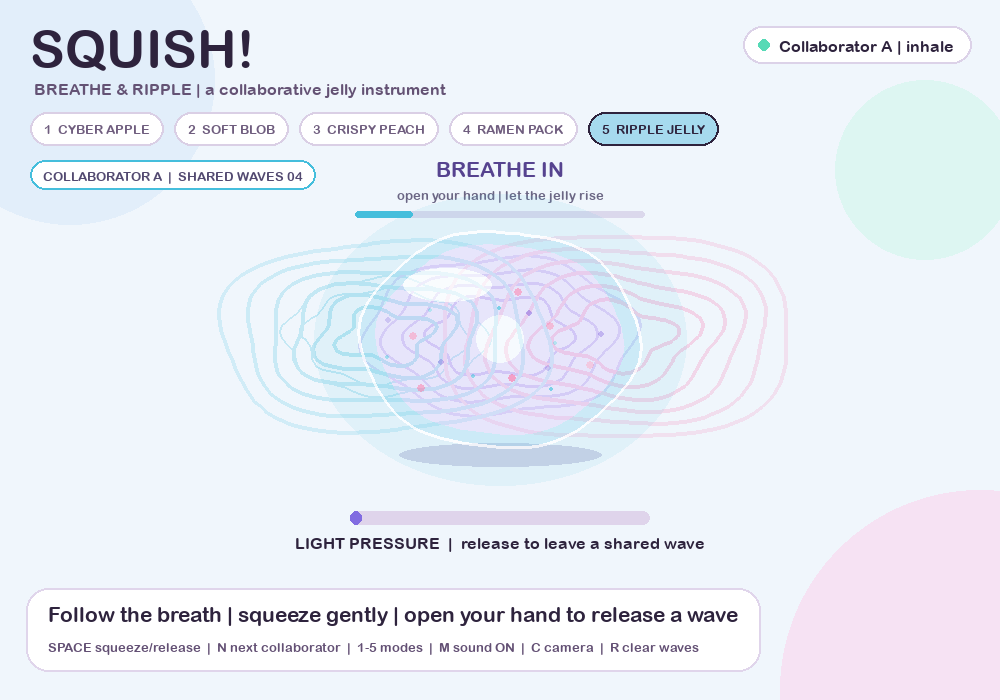
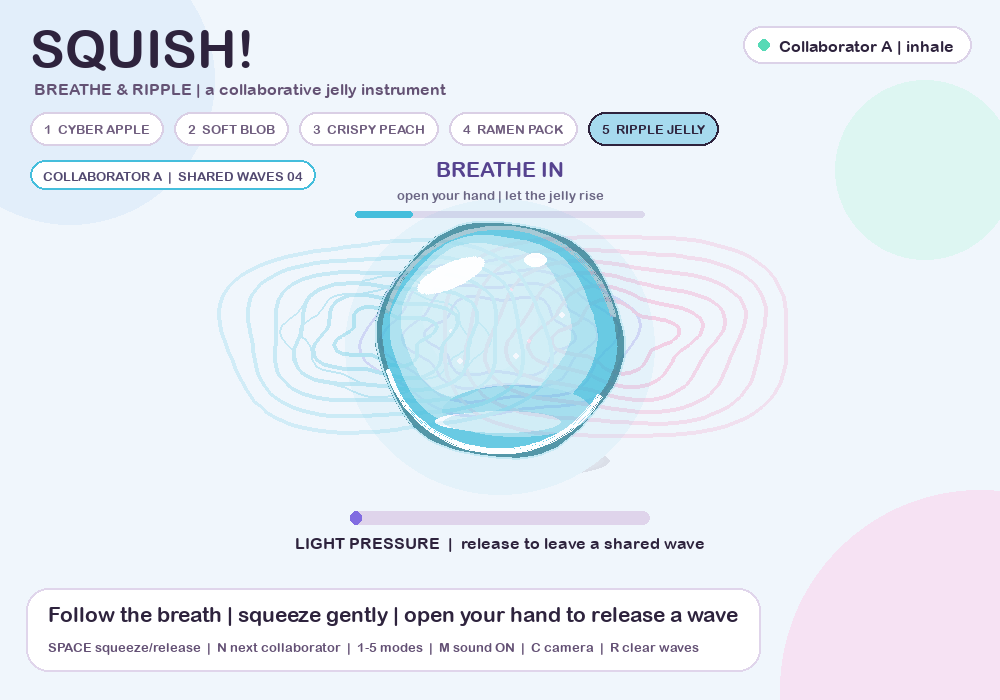
style: render glossy hydrogel ripple jelly

Changed region(s): [[0.372, 0.3, 0.651, 0.69]]

diff --git a/src/squish/app.py b/src/squish/app.py
@@ -707,18 +707,32 @@ class SquishApp:
         else:
             breath_scale = 1.04 - progress * 0.08
 
-        width, height = self.deformed_size(285, 230, pressure, 0.48, 0.40, scale * breath_scale)
+        # Keep the resting form close to a water-gel sphere. Pressure turns that
+        # sphere into a convincing squish without losing its glossy silhouette.
+        width, height = self.deformed_size(252, 252, pressure, 0.43, 0.38, scale * breath_scale)
         if self.squeeze_axis == "vertical":
-            cy += pressure * 30 * scale
+            cy += pressure * 25 * scale
         cy += math.sin(pygame.time.get_ticks() * 0.0016) * 5 * scale
-        shadow = pygame.Rect(0, 0, width * 0.73, 24 * scale)
-        shadow.center = (cx, cy + height * 0.53)
-        pygame.draw.ellipse(surface, (207, 211, 231), shadow)
 
         layer = pygame.Surface(surface.get_size(), pygame.SRCALPHA)
-        glow = pygame.Rect(0, 0, width + 95 * scale, height + 75 * scale)
-        glow.center = (cx, cy)
-        pygame.draw.ellipse(layer, (*RIPPLE_COLORS[self.collaborator], 24), glow)
+        tint = RIPPLE_COLORS[self.collaborator]
+        edge = tuple(max(0, int(channel * 0.67)) for channel in tint)
+        pale = tuple(min(255, int(channel + (255 - channel) * 0.45)) for channel in tint)
+        light = tuple(min(255, int(channel + (255 - channel) * 0.67)) for channel in tint)
+
+        # A layered contact shadow and a small coloured caustic sell the sense
+        # that the translucent ball is resting just above a surface.
+        for step in range(6, 0, -1):
+            shadow = pygame.Rect(0, 0, width * (0.55 + step * 0.045), (10 + step * 4) * scale)
+            shadow.center = (cx + width * 0.035, cy + height * 0.51)
+            pygame.draw.ellipse(layer, (66, 58, 92, 7 + step * 4), shadow)
+        caustic = pygame.Rect(0, 0, width * 0.48, height * 0.12)
+        caustic.center = (cx + width * 0.08, cy + height * 0.48)
+        pygame.draw.ellipse(layer, (*tint, 42), caustic)
+
+        glow = pygame.Rect(0, 0, width + 64 * scale, height + 58 * scale)
+        glow.center = (cx, cy + height * 0.03)
+        pygame.draw.ellipse(layer, (*tint, 18), glow)
 
         now = pygame.time.get_ticks() * 0.0018
         points = []
@@ -726,25 +740,66 @@ class SquishApp:
             angle = index / 96 * math.tau
             wobble = 1 + math.sin(angle * 6 + now) * (0.018 + pressure * 0.012)
             points.append((cx + math.cos(angle) * width * 0.5 * wobble, cy + math.sin(angle) * height * 0.5 * wobble))
-        pygame.draw.polygon(layer, (112, 204, 232, 72), points)
-        inner = [(cx + (x - cx) * 0.88, cy + (y - cy) * 0.88) for x, y in points]
-        pygame.draw.polygon(layer, (203, 177, 246, 63), inner)
-        pygame.draw.lines(layer, (255, 255, 255, 175), True, points, max(2, int(3 * scale)))
+        pygame.draw.polygon(layer, (*edge, 205), points)
 
-        for index in range(18):
-            angle = index * 2.399 + now * 0.22
-            distance = 0.20 + (index % 5) * 0.055
+        # Nested bodies act like a simple radial material: saturated at the rim,
+        # luminous and transparent through the middle.
+        body_layers = (
+            (0.94, (*tint, 202), 0.00, 0.00),
+            (0.83, (*pale, 190), -0.025, -0.025),
+            (0.68, (*light, 170), -0.055, -0.065),
+            (0.46, (*light, 150), -0.08, -0.09),
+        )
+        for factor, color, shift_x, shift_y in body_layers:
+            inner = [
+                (cx + (x - cx) * factor + width * shift_x, cy + (y - cy) * factor + height * shift_y)
+                for x, y in points
+            ]
+            pygame.draw.polygon(layer, color, inner)
+
+        lower_refraction = pygame.Rect(0, 0, width * 0.61, height * 0.22)
+        lower_refraction.center = (cx + width * 0.07, cy + height * 0.30)
+        pygame.draw.ellipse(layer, (*tint, 112), lower_refraction)
+        lower_light = pygame.Rect(0, 0, width * 0.35, height * 0.075)
+        lower_light.center = (cx - width * 0.09, cy + height * 0.34)
+        pygame.draw.ellipse(layer, (255, 255, 255, 105), lower_light)
+
+        # A darker lower rim and bright upper rim mimic refraction through a
+        # thick hydrogel skin while still allowing the ripples to show through.
+        rim_rect = pygame.Rect(0, 0, width * 0.96, height * 0.96)
+        rim_rect.center = (cx, cy)
+        pygame.draw.arc(layer, (*edge, 96), rim_rect, math.radians(12), math.radians(166), max(2, int(4 * scale)))
+        pygame.draw.arc(layer, (255, 255, 255, 210), rim_rect, math.radians(196), math.radians(330), max(2, int(4 * scale)))
+        pygame.draw.lines(layer, (*pale, 122), True, points, max(1, int(2 * scale)))
+
+        # A few barely visible inclusions add depth without turning the clean
+        # gel material back into the earlier dotted, misty blob.
+        for index in range(6):
+            angle = index * 2.399 + now * 0.12
+            distance = 0.12 + (index % 3) * 0.085
             px = cx + math.cos(angle) * width * distance
             py = cy + math.sin(angle) * height * distance * 0.72
-            radius = max(2, int((2 + index % 3) * scale))
-            color = (*RIPPLE_COLORS[index % 3], 90 + (index % 4) * 28)
-            pygame.draw.circle(layer, color, (int(px), int(py)), radius)
+            radius = max(2, int((2 + index % 2) * scale))
+            pygame.draw.circle(layer, (255, 255, 255, 52), (int(px), int(py)), radius)
 
-        core_radius = int((24 + pressure * 15) * scale)
-        pygame.draw.circle(layer, (255, 255, 255, 92), (int(cx), int(cy)), core_radius)
-        shine = pygame.Rect(0, 0, width * 0.32, height * 0.16)
-        shine.center = (cx - width * 0.19, cy - height * 0.25)
-        pygame.draw.ellipse(layer, (255, 255, 255, 150), shine)
+        # Crisp, offset specular highlights are the strongest material cue in
+        # the user's reference: one stretched reflection plus a small sparkle.
+        highlight_size = (max(12, int(width * 0.30)), max(8, int(height * 0.105)))
+        highlight = pygame.Surface(highlight_size, pygame.SRCALPHA)
+        pygame.draw.ellipse(highlight, (255, 255, 255, 244), highlight.get_rect())
+        highlight = pygame.transform.rotate(highlight, 24)
+        highlight_rect = highlight.get_rect(center=(cx - width * 0.20, cy - height * 0.27))
+        layer.blit(highlight, highlight_rect)
+        pygame.draw.ellipse(
+            layer,
+            (255, 255, 255, 235),
+            pygame.Rect(cx + width * 0.10, cy - height * 0.36, width * 0.095, height * 0.06),
+        )
+        pygame.draw.ellipse(
+            layer,
+            (*pale, 90),
+            pygame.Rect(cx - width * 0.23, cy + height * 0.30, width * 0.48, height * 0.095),
+        )
         surface.blit(layer, (0, 0))
 
     def draw_particles(self, surface: pygame.Surface) -> None:

diff --git a/src/squish/__init__.py b/src/squish/__init__.py
@@ -1,4 +1,4 @@
 """SQUISH! interactive digital stress toy."""
 
-__version__ = "0.6.0"
+__version__ = "0.6.1"
 

diff --git a/CREDITS.md b/CREDITS.md
@@ -25,13 +25,13 @@ Library versions used for a particular submission are recorded in `uv.lock` afte
 
 ## Visual and media assets
 
-All shapes, character graphics, translucent jelly layers, pressure waves, supermarket elements, particles, interface elements, and short sound effects are generated procedurally by the Python code. There are no downloaded images, fonts, sounds, prerecorded camera clips, or third-party visual assets in prototype version 0.6.
+All shapes, character graphics, translucent jelly layers, pressure waves, supermarket elements, particles, interface elements, and short sound effects are generated procedurally by the Python code. There are no downloaded images, fonts, sounds, prerecorded camera clips, or third-party visual assets in prototype version 0.6.1.
 
 ## Interaction references
 
 - A user-supplied Xiaohongshu post titled “捏一下赛博青苹果来哄自己开心” inspired the green-apple theme and the request for more tactile variation. The short link could not be fetched in the development environment, so no imagery, code, audio, or text was copied from it: <https://xhslink.cn/o/6Nkve3BQzjj>
 - CBNData's article on crispy squishies was consulted for general context about progressive breaking and immediate sensory feedback: <https://www.cbndata.com/information/295843>
-- User-supplied screenshots of gesture-controlled music and breathing-oriented generative artwork informed the later request for a translucent jelly, breathing prompts, musical feedback, and collaborative pressure waves. No imagery, interface, text, music, or code was copied from those screenshots.
+- User-supplied screenshots of gesture-controlled music, breathing-oriented generative artwork, and coloured hydrogel stress balls informed the translucent jelly, breathing prompts, musical feedback, collaborative pressure waves, and glossy material treatment. No imagery, interface, text, music, or code was copied from those screenshots.
 
 These are interaction references, not source assets.
 

diff --git a/README.md b/README.md
@@ -2,7 +2,7 @@
 
 Public repository: <https://github.com/Only-SerenaLIN/SQUISH-interactive-experience>
 
-**SQUISH!** is a webcam-controlled breathing and co-creation experience built around a translucent digital jelly. Follow a gentle breathing prompt, close your hand to build pressure, and open it to release a visual ripple and a generated musical chord. Each person's waves remain on the shared canvas long enough to meet the next participant's contribution.
+**SQUISH!** is a webcam-controlled breathing and co-creation experience built around a glossy, translucent digital hydrogel ball. Follow a gentle breathing prompt, close your hand to build pressure, and open it to release a visual ripple and a generated musical chord. Each person's waves remain on the shared canvas long enough to meet the next participant's contribution.
 
 The default **Ripple Jelly** mode is the focused Assignment 3 experience. Earlier Cyber Apple, Soft Blob, Crispy Peach, and Ramen Pack studies remain available as development experiments. If the camera is unavailable, the complete main interaction still works with the keyboard or mouse.
 
@@ -65,7 +65,7 @@ The enhanced supermarket interaction adds anticipation before the burst and a di
 - Live one-hand and two-hand tracking with OpenCV and MediaPipe
 - Hand-open / hand-closed estimation, normalised for hand size
 - Horizontal two-palm distance mapped to side pressure
-- A translucent **Ripple Jelly** with breathing expansion, pressure deformation, internal light, and spring rebound
+- A glossy translucent **Ripple Jelly** with a coloured rim, transmitted light, specular highlights, breathing expansion, pressure deformation, and spring rebound
 - A persistent eight-layer co-creation canvas for three sequential collaborators
 - Three pressure qualities mapped to distinct wave geometry and generated ambient chords
 - A 4-2-6 visual breathing guide that never treats timing variation as failure

diff --git a/PROCESS.md b/PROCESS.md
@@ -149,6 +149,7 @@ Camera frames are processed in memory and are not displayed, recorded, uploaded,
 - Kept the eight most recent waves visible so three sequential collaborators can build one shared composition.
 - Added `N` handoff, collaborator colours, a shared-wave count, keyboard fallback, and a clear-canvas reset.
 - Retained the four earlier toys as visible development experiments while making Ripple Jelly the launch default.
+- **0.6.1 material polish:** replaced the misty oval jelly with a rounder hydrogel-ball treatment after reviewing a user-supplied material reference. A saturated rim, transparent centre, sharp offset highlights, lower refraction colour, and a soft contact shadow make the squeeze response read more clearly. The reference image itself is not included or copied into the program.
 - Added automated tests for pressure classification and breathing phase timing.
 
 ### AI collaboration record
